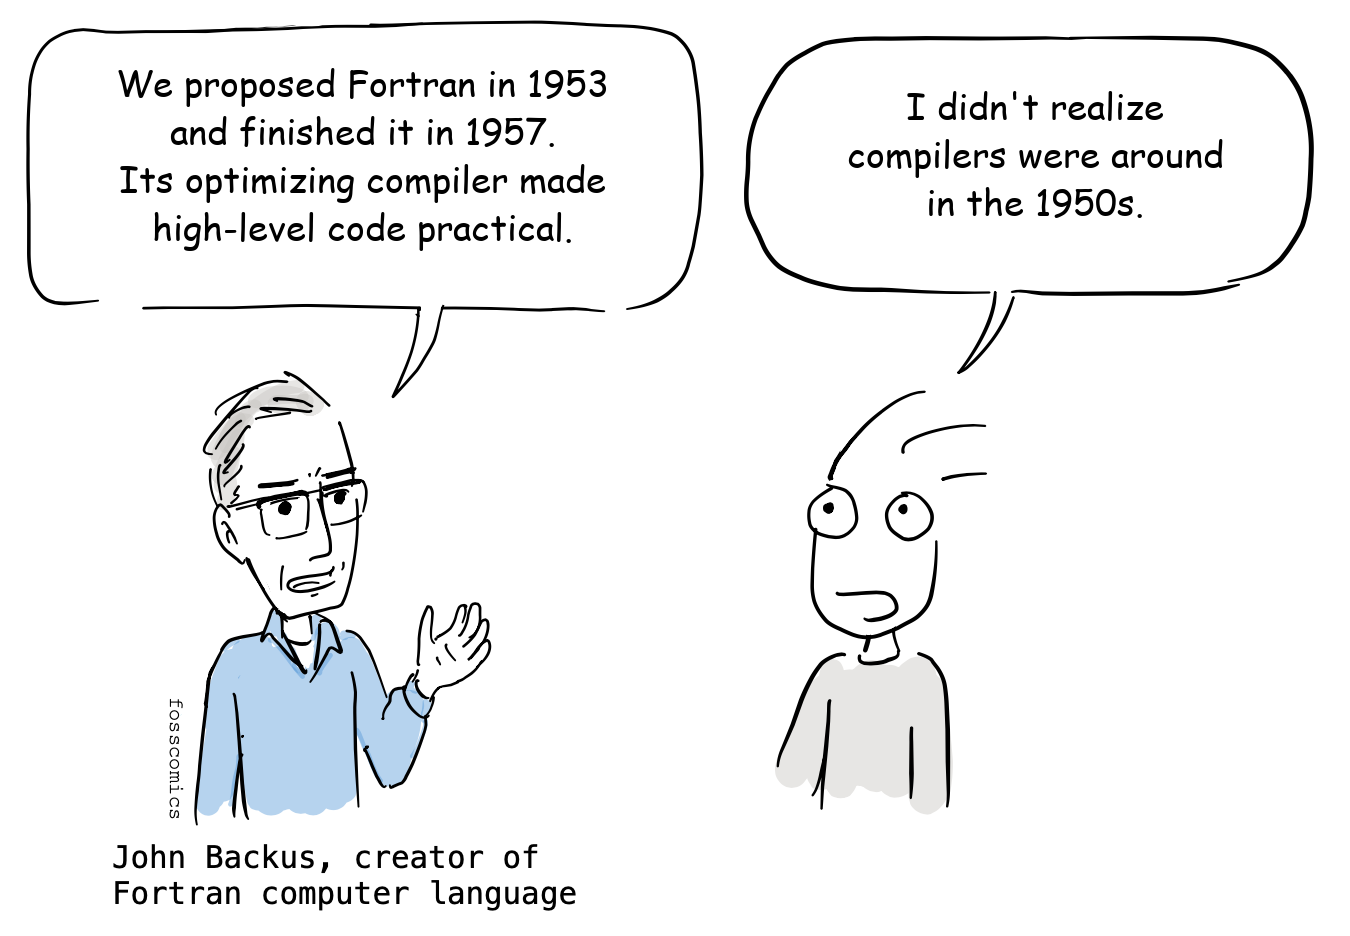
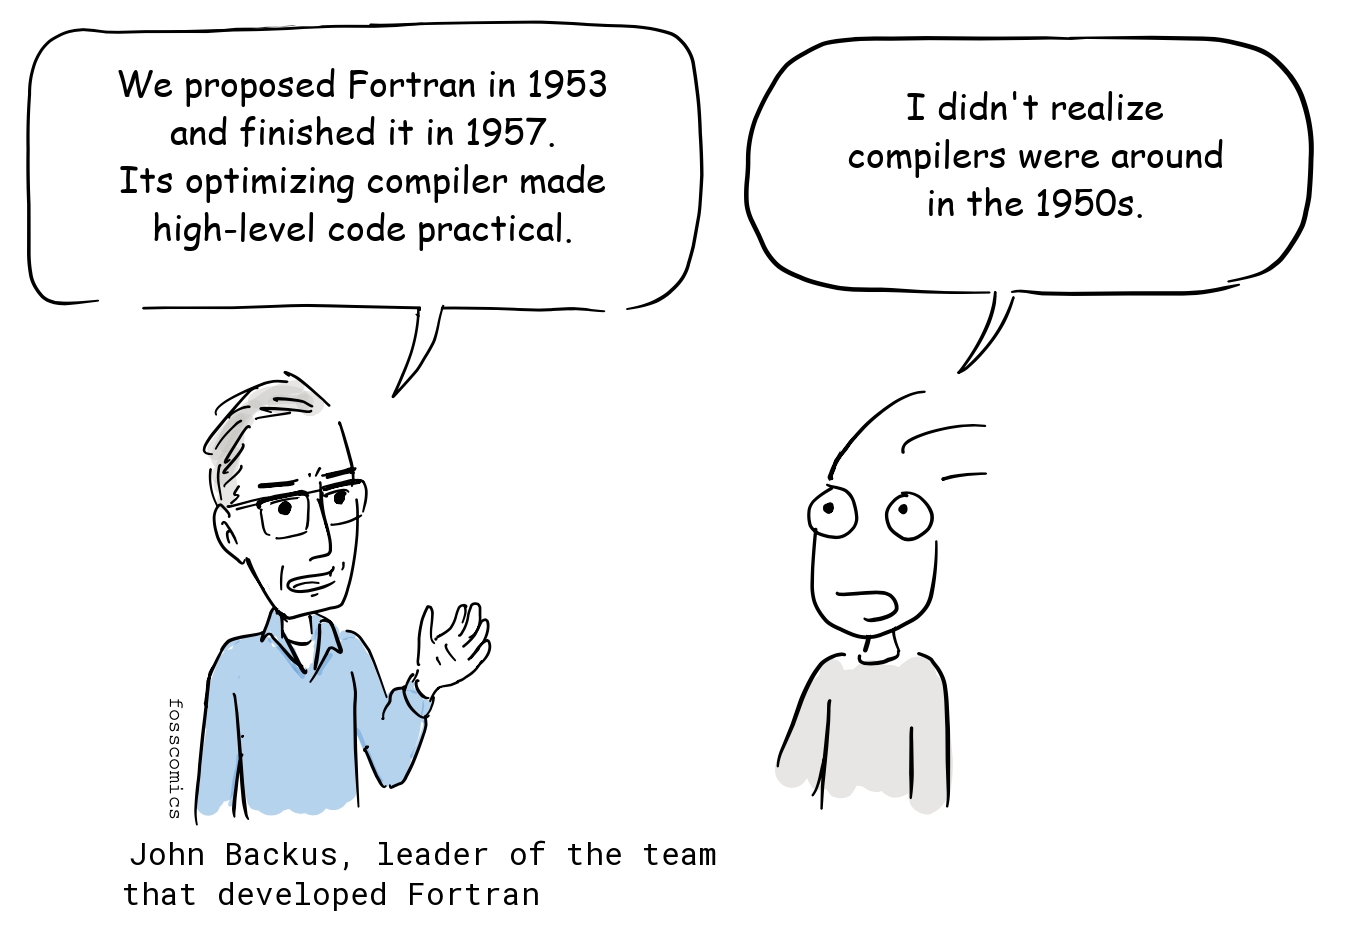
Update image descriptions and enhance clarity in "The Era of Commercial Computers" post

Changed region(s): [[0.0622, 0.8985, 0.4356, 0.9915], [0.4356, 0.8985, 0.5289, 0.9295]]

diff --git a/content/posts/3. The Era of Commercial Computers/index.md b/content/posts/3. The Era of Commercial Computers/index.md
@@ -2,7 +2,7 @@
 title: 3. The Era of Commercial Computers
 date: "2019-06-25"
 image: feature.png
-description: In 1946, ENIAC and EDVAC engineers J. Presper Eckert and John Mauchly founded a company that became the Eckert-Mauchly Computer Corporation and developed UNIVAC I. During the 1950s, IBM introduced computers including the 701, 704, and mass-produced 650, while Fortran and Lisp helped expand the possibilities of programming.This marked the beginning of widespread commercial computing and software engineering in the 1950s...
+description: In 1946, ENIAC and EDVAC engineers J. Presper Eckert and John Mauchly founded a company that became the Eckert-Mauchly Computer Corporation and developed UNIVAC I. During the 1950s, IBM introduced computers including the 701, 704, and mass-produced 650, while Fortran and Lisp helped expand the possibilities of programming. This marked the beginning of widespread commercial computing.
 
 tags: EDVAC, Presper Eckert, John Mauchly, IBM, Donald Knuth, IBM 650, Fortran, John Backus, IBM 701, IBM 704, The Art of Computer Programming
 ---
@@ -13,19 +13,19 @@ Electronic computing advanced rapidly during World War II, driven partly by mili
 > "Are the firing-table calculations ready?" \
 > "Not yet."
 
-Some of the early computer engineers who recognized the commercial potential of computers were J. Presper Eckert and John Mauchly.
+J. Presper Eckert and John Mauchly were among the engineers who recognized the commercial potential of computers.
 
-![J. Presper Eckert and John Mauchly face each other as one gestures with his hand.](images/3_2.png "John Mauchly and John Eckert size:80%")
+![J. Presper Eckert and John Mauchly face each other as one gestures with his hand.](images/3_2.png "John Mauchly and J. Presper Eckert size:80%")
 > "What if we build computers for civilian agencies too?" \
 > "Then let's start a company."
 
 In 1946, Eckert and Mauchly, leading members of the ENIAC and EDVAC teams, left the University of Pennsylvania and founded the Electronic Control Company. In December 1947, they incorporated and renamed the business [the Eckert-Mauchly Computer Corporation (EMCC)](https://en.wikipedia.org/wiki/Eckert%E2%80%93Mauchly_Computer_Corporation). They developed UNIVAC I, a general-purpose commercial computer designed for data processing. The first UNIVAC I was delivered to the [U.S. Census Bureau](https://en.wikipedia.org/wiki/U.S._Census_Bureau) in 1951.
 
-![One Census Bureau employee speaks on the telephone while another carries a stack of punched cards beside a UNIVAC console.](images/3_3.png "size:80%")
-> "Have you finished the life-expectancy figures?" \
+![Joone speaks on the telephone while a Census Bureau employee examines results being printed by the UNIVAC.](images/3_3.png "size:80%")
+> "Are the life-expectancy figures ready?" \
 > "One moment."
 
-The company was then expected to supply UNIVAC via contracts with the Army, Navy, and Air Force.  However, those contracts were eventually cancelled in 1950 after some employees were suspected as communists during the [McCarthy](https://en.wikipedia.org/wiki/McCarthyism) era.
+The company was then expected to supply UNIVAC via contracts with the Army, Navy, and Air Force. However, those contracts were eventually cancelled in 1950 after some employees were suspected as communists during the [McCarthy](https://en.wikipedia.org/wiki/McCarthyism) era.
 Mauchly was also suspected and forced to leave the company, and it took him two years to get back to work. 
 
 ![Senator Joseph McCarthy points accusingly at John Mauchly, who responds with open hands.](images/3_4.png "size:80%")
@@ -39,7 +39,7 @@ The security dispute was not the company's only problem. EMCC had underestimated
 
 ## Who should receive credit for the stored-program design?
 
-The historical record does not support attributing the architecture to any one person. It grew out of collaborative work on EDVAC by the ENIAC team, including Eckert and Mauchly, with important contributions from John von Neumann. However, because the widely circulated [First Draft of a Report on the EDVAC](https://en.wikipedia.org/wiki/First_Draft_of_a_Report_on_the_EDVAC) listed only von Neumann as its author, we still call this computer architecture the von Neumann architecture, even though he did not devise the design entirely on his own and the allocation of credit remains controversial. Eckert and Mauchly helped usher in the era of commercial computing, but their company was not financially successful, neither man became widely known to the general public, and recognition of their contributions was complicated by decades of disputes over patents and historical credit.
+The historical record does not support attributing the architecture to any one person. It grew out of collaborative work on EDVAC by the ENIAC team, including Eckert and Mauchly, with important contributions from John von Neumann. Because the widely circulated [First Draft of a Report on the EDVAC](https://en.wikipedia.org/wiki/First_Draft_of_a_Report_on_the_EDVAC) named only von Neumann as its author, the stored-program design became strongly associated with him and is still commonly known as the von Neumann architecture. Eckert and Mauchly helped usher in the era of commercial computing, but their company was not financially successful, neither man became widely known to the general public, and recognition of their contributions was complicated by decades of disputes over patents and historical credit.
 
 Commercial computer production expanded during the 1950s. IBM, already dominant in [punched-card](https://en.wikipedia.org/wiki/Punched_card%23IBM_punched_card_manufacturing) equipment, announced its first large-scale electronic computer, the [IBM 701](https://en.wikipedia.org/wiki/IBM_701), in 1952.
 
@@ -48,7 +48,7 @@ Commercial computer production expanded during the 1950s. IBM, already dominant 
 
 For the [IBM 704](https://en.wikipedia.org/wiki/IBM_704), announced in 1954, [John Backus](https://en.wikipedia.org/wiki/John_Backus) led the IBM team that developed [Fortran](https://en.wikipedia.org/wiki/Fortran). The language was proposed in 1953, and its first compiler was delivered in 1957. Its ability to optimize high-level programs helped convince programmers that a compiler could produce efficient machine code[&lbrack;4&rbrack;][4]. John McCarthy designed [Lisp](https://en.wikipedia.org/wiki/Lisp_(programming_language)) later in the decade, and Steve Russell created an early working implementation on an IBM 704.
 
-![John Backus gestures while explaining Fortran to Joone, who looks surprised.](images/3_7.png "size:80%")
+![John Backus, leader of the team that developed Fortran, gestures while explaining the language to Joone, who looks surprised.](images/3_7.png "size:80%")
 > "We proposed Fortran in 1953 and finished it in 1957. Its optimizing compiler made high-level code practical." \
 > "I didn't realize compilers were around in the 1950s."
 
